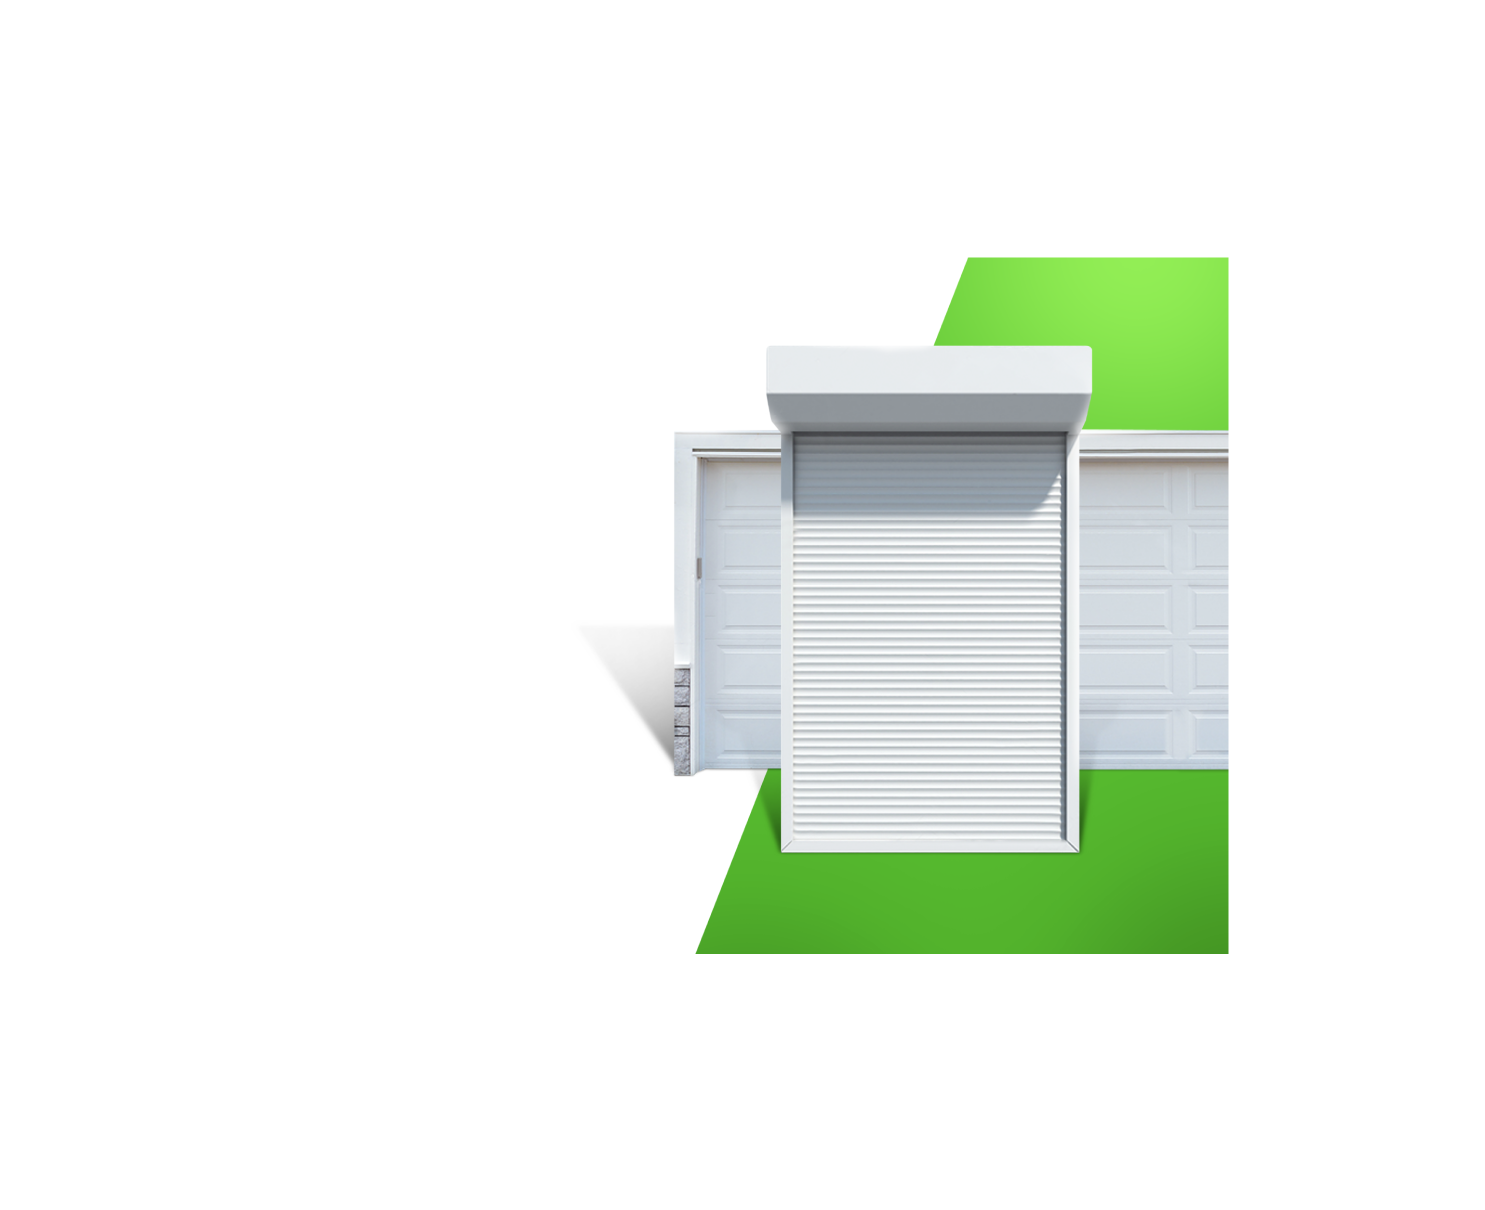
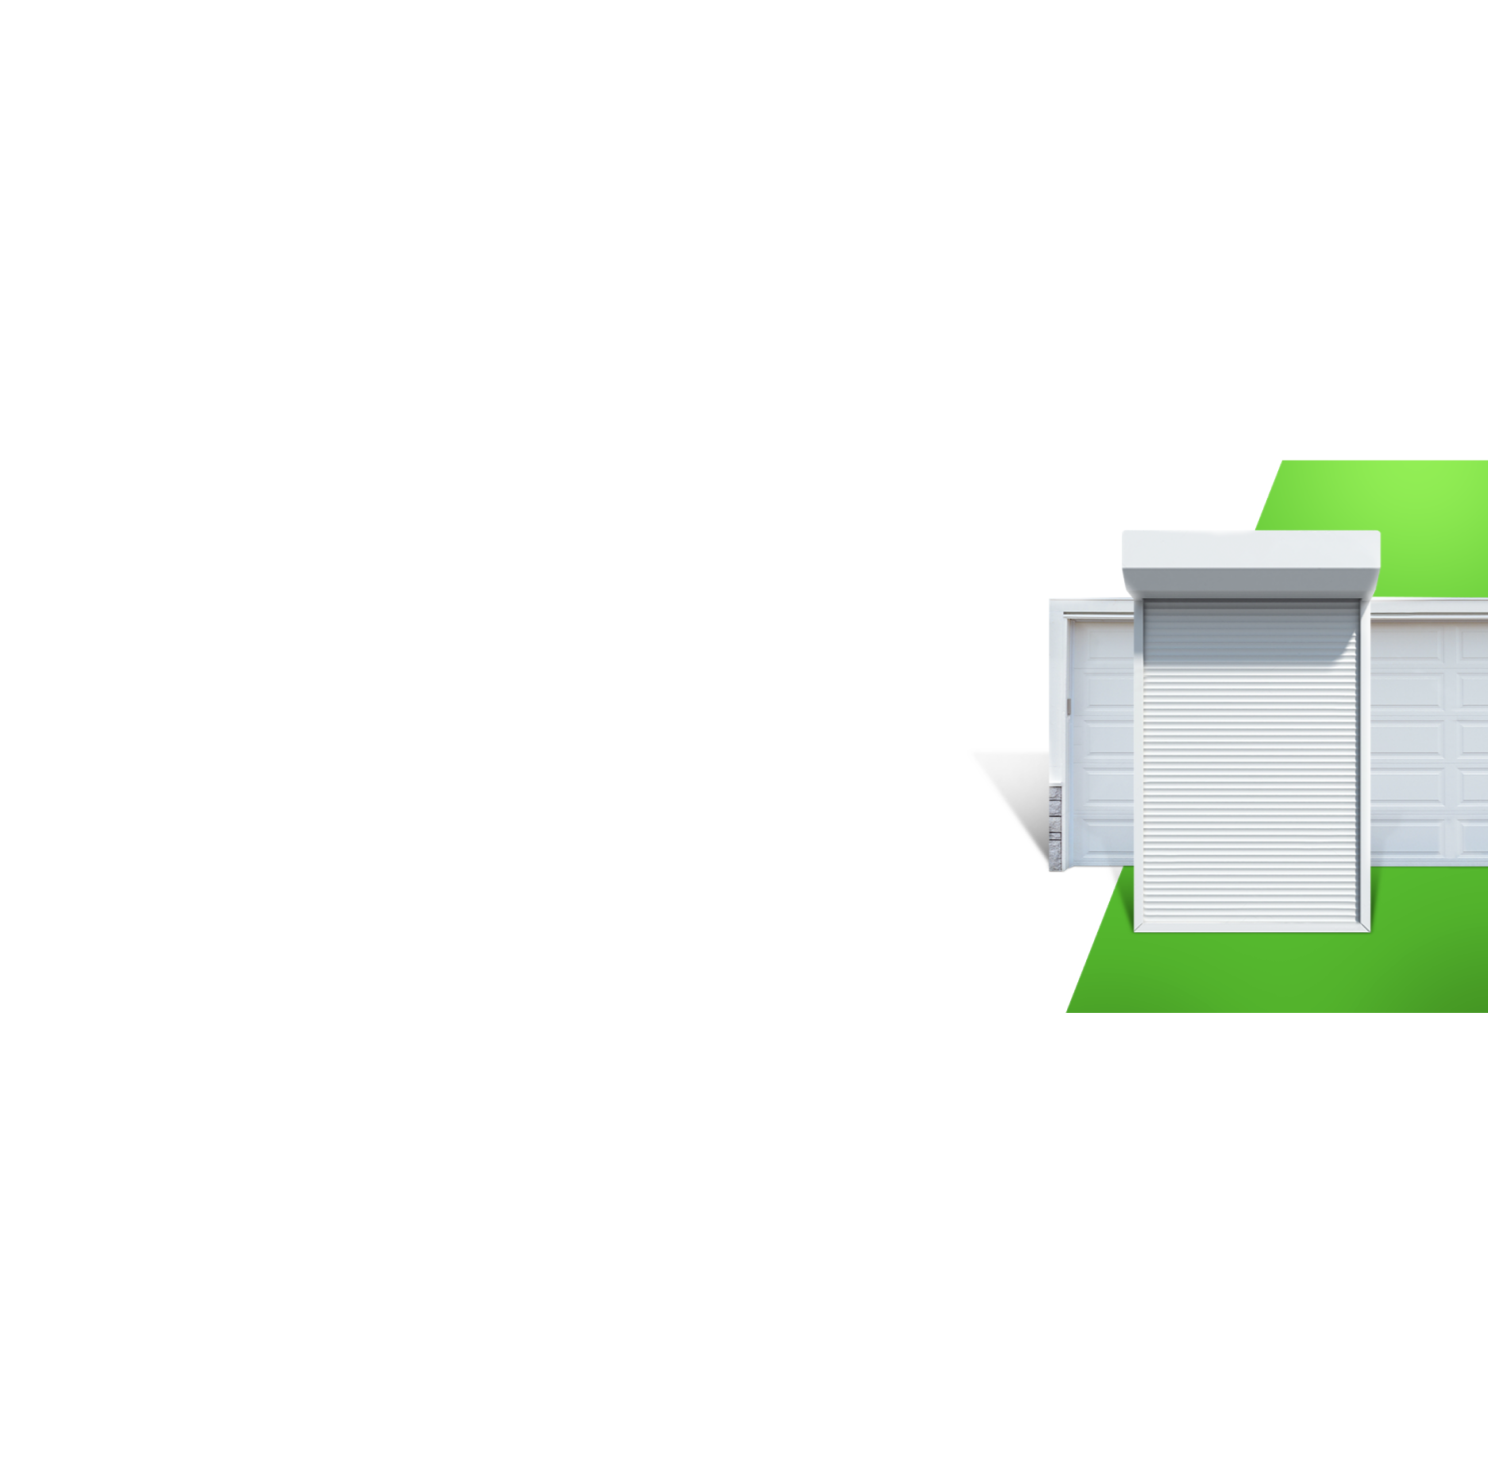
правки

Changed region(s): [[0.4027, 0.214, 1.0, 0.795]]

diff --git a/script.js b/script.js
@@ -10,6 +10,7 @@ document.addEventListener('DOMContentLoaded', function() {
     initFranchiseForm();
     initCounterAnimations();
     initMobileFeatures();
+    initImageScaling();
 });
 
 // Smooth scroll between sections
@@ -636,6 +637,101 @@ function showNotification(message, type = 'info') {
     }, 3000);
 }
 
+// Image scaling based on zoom level
+function initImageScaling() {
+    const heroImage = document.querySelector('.hero-image-section img');
+    if (!heroImage) return;
+    
+    let baseWidth = window.innerWidth;
+    let currentScale = 1;
+    
+    // Устанавливаем базовые размеры через CSS переменные (твои новые размеры)
+    heroImage.style.setProperty('--base-width', '950px');
+    heroImage.style.setProperty('--base-height', '1000px');
+    heroImage.style.setProperty('--max-width', '900px');
+    heroImage.style.setProperty('--max-height', '1300px');
+    
+    function updateImageScale() {
+        // Простой метод: сравниваем текущую ширину с базовой
+        const currentWidth = window.innerWidth;
+        const zoomFactor = baseWidth / currentWidth;
+        
+        // Рассчитываем масштаб изображения исходя из твоих размеров
+        let scale = 1;
+        let widthMultiplier = 1;
+        let heightMultiplier = 1;
+        
+        if (zoomFactor <= 0.4) { // очень большой зум (250%+)
+            scale = 2.2;
+            widthMultiplier = 1.4;
+            heightMultiplier = 1.6;
+        } else if (zoomFactor <= 0.5) { // зум 200%
+            scale = 1.8;
+            widthMultiplier = 1.3;
+            heightMultiplier = 1.4;
+        } else if (zoomFactor <= 0.67) { // зум 150%
+            scale = 1.5;
+            widthMultiplier = 1.2;
+            heightMultiplier = 1.3;
+        } else if (zoomFactor <= 0.8) { // зум 125%
+            scale = 1.25;
+            widthMultiplier = 1.1;
+            heightMultiplier = 1.15;
+        } else if (zoomFactor <= 0.9) { // зум 110%
+            scale = 1.1;
+            widthMultiplier = 1.05;
+            heightMultiplier = 1.05;
+        }
+        
+        // Применяем только если изменился
+        if (Math.abs(scale - currentScale) > 0.05) {
+            currentScale = scale;
+            
+            // Рассчитываем новые размеры на основе твоих базовых
+            const newWidth = Math.min(950 * widthMultiplier, 900 * heightMultiplier);
+            const newHeight = Math.min(1000 * heightMultiplier, 1300 * heightMultiplier);
+            
+            // Применяем через CSS переменные и transform
+            heroImage.style.setProperty('--scale-width', `${newWidth}px`);
+            heroImage.style.setProperty('--scale-height', `${newHeight}px`);
+            heroImage.style.transform = `translateY(-50%) scale(${scale})`;
+            heroImage.style.transformOrigin = 'center right';
+            heroImage.style.position = 'absolute';
+            heroImage.style.right = '0';
+            heroImage.style.top = '50%';
+            heroImage.style.zIndex = '2';
+            
+            console.log(`Zoom: ${Math.round(1/zoomFactor * 100)}%, Scale: ${scale}, Size: ${Math.round(newWidth)}×${Math.round(newHeight)}`);
+        }
+    }
+    
+    // ResizeObserver для более точного отслеживания
+    if (window.ResizeObserver) {
+        const resizeObserver = new ResizeObserver(entries => {
+            updateImageScale();
+        });
+        resizeObserver.observe(document.body);
+    }
+    
+    // Дополнительные слушатели
+    window.addEventListener('resize', updateImageScale);
+    window.addEventListener('load', () => {
+        baseWidth = window.innerWidth;
+        updateImageScale();
+    });
+    
+    // Отслеживание через визуальный viewport (для мобильных браузеров)
+    if (window.visualViewport) {
+        window.visualViewport.addEventListener('resize', updateImageScale);
+    }
+    
+    // Инициализация
+    setTimeout(() => {
+        baseWidth = window.innerWidth;
+        updateImageScale();
+    }, 100);
+}
+
 // Initialize all features when DOM is loaded
 document.addEventListener('DOMContentLoaded', function() {
     initScrollIndicator();
@@ -643,4 +739,5 @@ document.addEventListener('DOMContentLoaded', function() {
     initCounters();
     initFranchiseForm();
     initPdfDownload();
+    initImageScaling();
 });

diff --git a/styles.css b/styles.css
@@ -180,6 +180,8 @@ body {
     background: linear-gradient(135deg, #f8f9fa 0%, #e9ecef 100%);
     position: relative;
     overflow: hidden;
+    padding-right: 0;
+    margin-right: 0;
 }
 
 /* Защита от масштабирования через центрирование */
@@ -210,6 +212,10 @@ body {
     }
     
     .hero-container {
+        width: 100% !important;
+        max-width: none !important;
+        margin: 0 !important;
+        padding: 0 !important;
         display: flex !important;
         flex-direction: column !important;
         position: relative !important;
@@ -248,6 +254,39 @@ body {
         height: clamp(150px, 25vh, 300px) !important;
         min-height: clamp(150px, 25vh, 300px) !important;
     }
+    
+    .hero-image-section img {
+        transform: scale(1.2) !important;
+    }
+}
+
+/* Адаптивное масштабирование изображения */
+@media screen and (min-width: 1024px) {
+    .hero-image-section img {
+        width: clamp(950px, 55vw, 900px);
+        height: clamp(1000px, 70vh, 1300px);
+        max-width: none;
+        max-height: none;
+        object-fit: cover;
+        object-position: center right;
+        position: absolute !important;
+        right: 0 !important;
+        top: 50% !important;
+        transform: translateY(-50%) !important;
+        margin: 0 !important;
+        padding: 0 !important;
+        z-index: 2 !important;
+        pointer-events: auto !important;
+    }
+    
+    .hero-image-section {
+        width: 100vw !important;
+        height: 100%;
+        right: calc(-1 * (100vw - 100%)) !important;
+        position: absolute !important;
+        overflow: visible;
+        pointer-events: none !important;
+    }
 }
 
 .hero-section::before {
@@ -262,8 +301,8 @@ body {
 }
 
 .hero-container {
-    max-width: 1400px;
-    margin: 0 auto;
+    width: 100%;
+    margin: 0;
     padding: 0;
     display: flex;
     flex-direction: column;
@@ -277,26 +316,35 @@ body {
     z-index: 1;
     position: absolute;
     top: 0;
-    right: 0;
+    right: calc(-1 * (100vw - 100%));
     background: transparent;
     display: flex;
     align-items: center;
     justify-content: flex-end;
     overflow: visible;
     padding: 0;
-    width: 60%;
+    width: 100vw;
     height: 100%;
     flex-shrink: 0;
+    pointer-events: none;
 }
 
 .hero-image-section img {
-    width: auto;
-    height: 100%;
+    width: clamp(1550px, 55vw, 2800px);
+    height: clamp(1800px, 70vh, 3000px);
     max-width: none;
     max-height: none;
-    object-fit: contain;
+    object-fit: cover;
+    object-position: center right;
     display: block;
     z-index: 2;
+    transform-origin: center right;
+    transition: all 0.2s ease-out;
+    position: absolute;
+    right: 0;
+    top: 50%;
+    transform: translateY(-50%);
+    pointer-events: auto;
 }
 
 /* Блок-ограничитель высоты - НЕ ДАЕТ КОНТЕНТУ ПОДНИМАТЬСЯ ВЫШЕ */
@@ -331,6 +379,7 @@ body {
     max-width: 500px;
     margin: 0 auto;
     z-index: 3;
+    margin-left: 10%;
 }
 
 .hero-title {
@@ -400,10 +449,11 @@ body {
 }
 
 .form-title {
+    margin-top: 15px;
     font-size: 26px;
     font-weight: 700;
     color: #000000;
-    margin-bottom: 0px;
+    margin-bottom: 15px;
     text-align: left;
     letter-spacing: -0.025em;
 }
@@ -1286,7 +1336,7 @@ body {
     line-height: 1.6;
     color: #D1D5DB;
     text-align: center;
-    margin-bottom: 0px;
+    margin-bottom: 15px;
     max-width: 800px;
     margin-left: auto;
     margin-right: auto;
